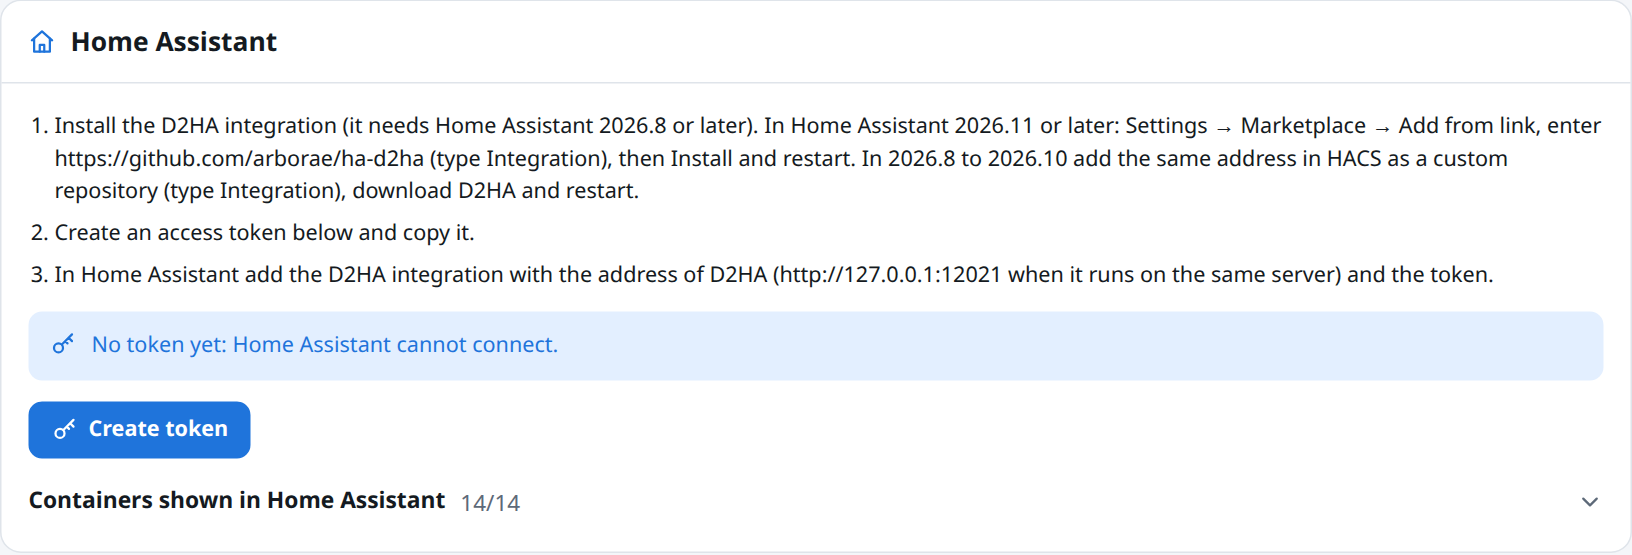
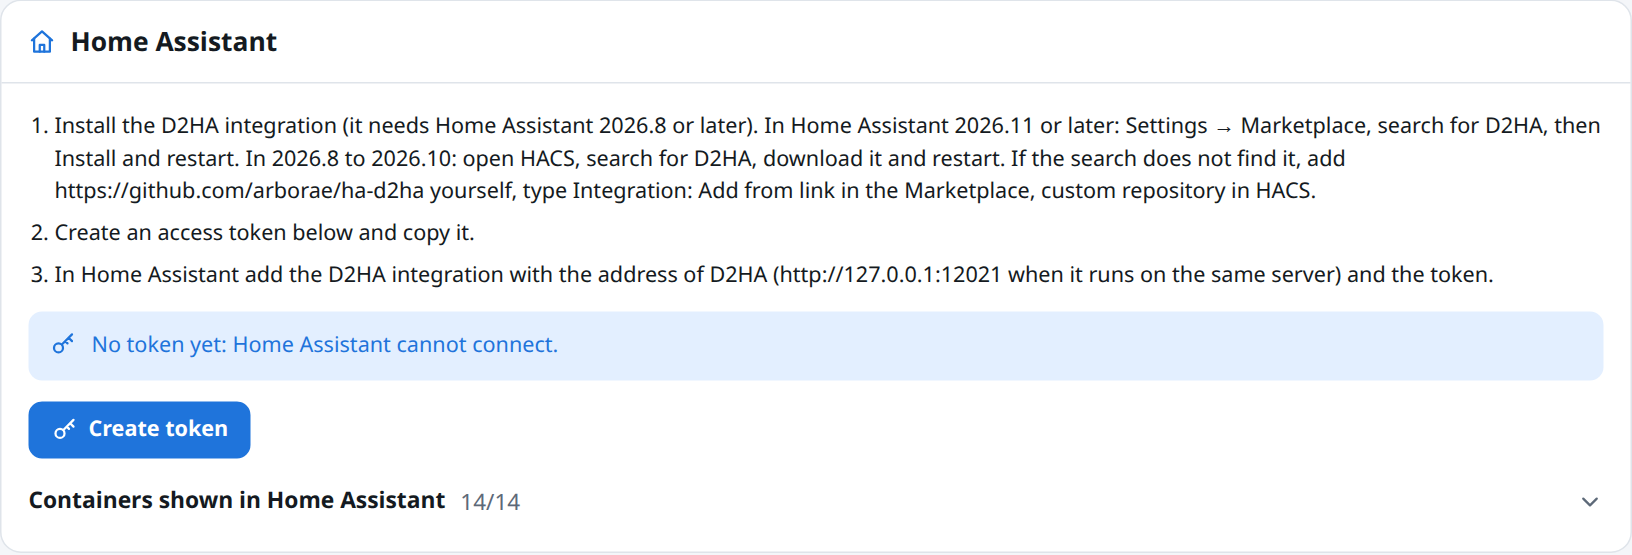
docs: install the integration with a search, new Settings screenshot
The Home Assistant page of the docs site leads with the search for D2HA; the
custom repository route moves to a callout. The screenshot of Settings → Home
Assistant shows the new text (demo data, same size as before).

Refs #274

Changed region(s): [[0.0312, 0.245, 0.9375, 0.3676], [0.8438, 0.2144, 1.0, 0.245], [0.2812, 0.8883, 0.3125, 0.9189]]

diff --git a/docs/guide/home-assistant/index.html b/docs/guide/home-assistant/index.html
@@ -106,7 +106,7 @@
 
         <h2 id="install">Install the integration</h2>
 
-        <p><a href="https://my.home-assistant.io/redirect/marketplace_repository/?owner=arborae&amp;repository=ha-d2ha&amp;category=integration" target="_blank" rel="noreferrer">This link</a> opens the integration in your Home Assistant, in the Marketplace or in HACS, and offers to add it. By hand:</p>
+        <p>D2HA is in the catalogue of Home Assistant's Marketplace (the HACS default list), so a search finds it. <a href="https://my.home-assistant.io/redirect/marketplace_repository/?owner=arborae&amp;repository=ha-d2ha&amp;category=integration" target="_blank" rel="noreferrer">This link</a> opens it in your Home Assistant, in the Marketplace or in HACS. By hand:</p>
 
         <div class="table-wrap">
           <table>
@@ -114,10 +114,15 @@
               <tr><th>Home Assistant</th><th>How</th></tr>
             </thead>
             <tbody>
-              <tr><td>2026.11 or later</td><td><strong>Settings → Marketplace → Add from link</strong>, enter <code>https://github.com/arborae/ha-d2ha</code> with type <strong>Integration</strong> (the first time, the Marketplace asks you to connect GitHub), then <strong>Install</strong> and <strong>Restart Home Assistant</strong>.</td></tr>
-              <tr><td>2026.8 to 2026.10</td><td>In HACS, add <code>https://github.com/arborae/ha-d2ha</code> as a custom repository of type <strong>Integration</strong>, download <strong>D2HA</strong> and restart Home Assistant.</td></tr>
+              <tr><td>2026.11 or later</td><td><strong>Settings → Marketplace</strong>, search for <strong>D2HA</strong>, then <strong>Install</strong> and <strong>Restart Home Assistant</strong>.</td></tr>
+              <tr><td>2026.8 to 2026.10</td><td>Open HACS, search for <strong>D2HA</strong>, download it and restart Home Assistant.</td></tr>
             </tbody>
           </table>
+        </div>
+
+        <div class="callout">
+          <span class="callout-title">If the search does not find it</span>
+          <p>Add <code>https://github.com/arborae/ha-d2ha</code> yourself with type <strong>Integration</strong>: <strong>Add from link</strong> in the Marketplace (the first time, it asks you to connect GitHub), or as a custom repository in HACS.</p>
         </div>
 
         <h2 id="connect">Connect it to D2HA</h2>
